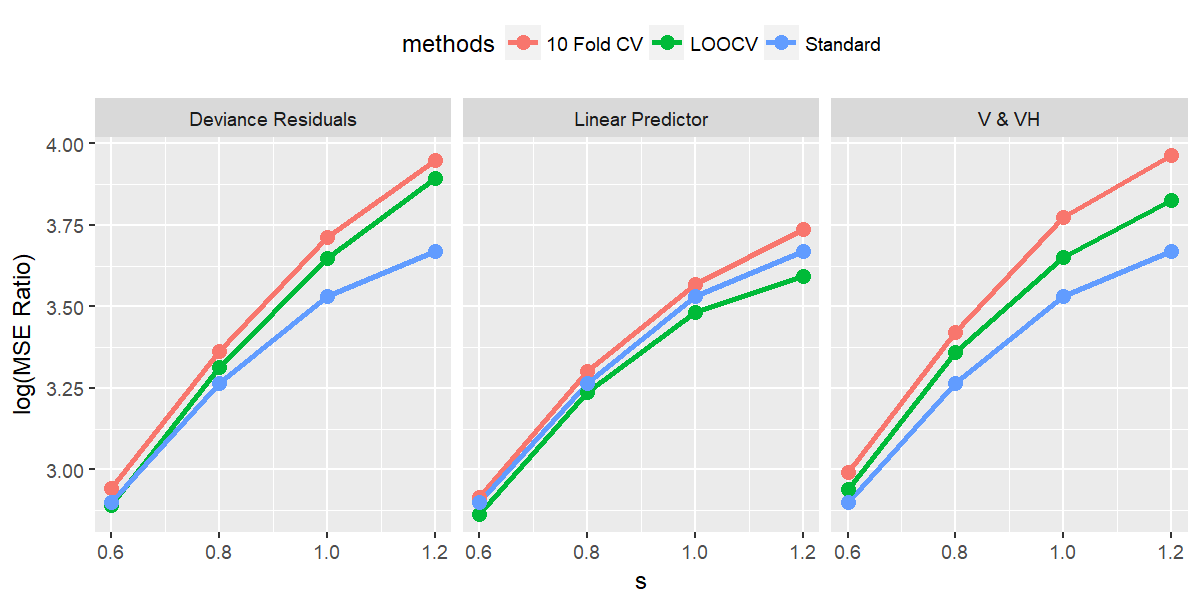
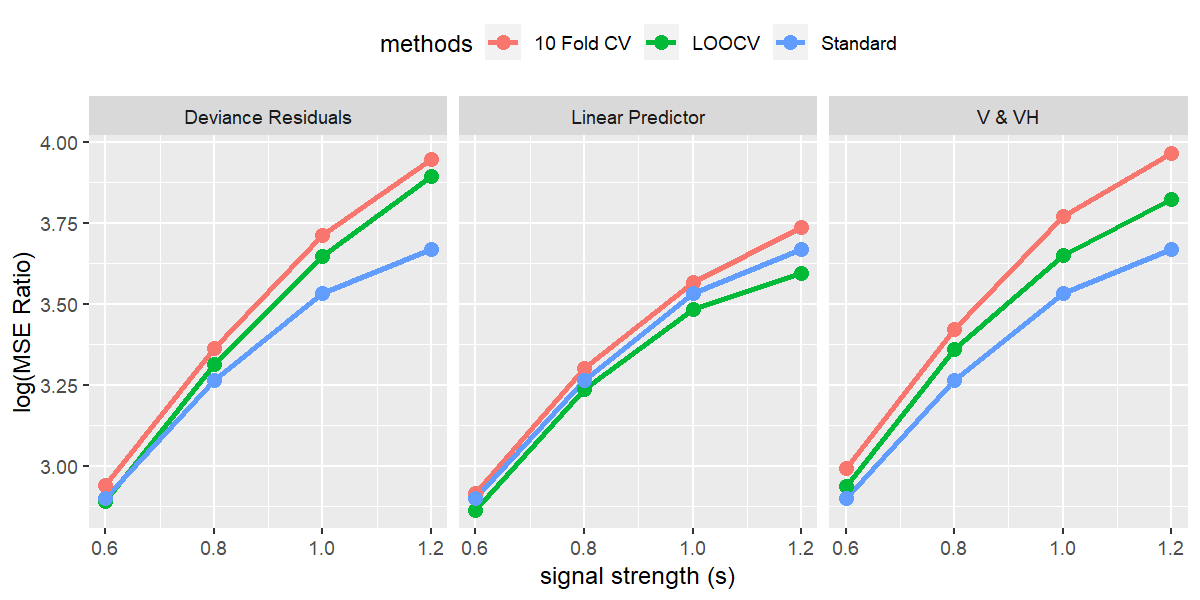
edit 2.3, 3.1, change x label for all figures

diff --git a/main.tex b/main.tex
@@ -100,9 +100,9 @@ We define the cross-validation error evaluated with cross-validated linear predi
 
 The fundamental challenge of conducting cross validation for Cox regression is that the baseline hazard is not estimated from the model. Hence, another approach to cross-validation would be to include an extra step of estimating the baseline hazard and using it to quantify the cross-validation error. The cumulative baseline hazard $\Lambda_0$ is typically estimated via the Nelson-Aalen Estimator \citep{nelson1969, aalen1978}:
 \begin{equation}
-  \hat{\Lambda}_{0}(t) = \sum_{t_j \leq t}\frac{\text{number of failures at time } t_j}{\text{number at risk at time }t^{-}_j}.
+  \hat{\Lambda}_{0}(t) = \sum_{t_j \leq t}\frac{\text{number of failures at time } t_j}{\text{number at risk right before time }t_j}.
 \end{equation}
-\note{need to define $t^{-}_j$.}
+\bnote{I write out the $t^{-}_j$ definition directly into the fomula so that we don't need to define $t^{-}_j$ separately.}
 The Cox model implies the following relationship between the baseline cumulative hazard and the cumulative hazard for individual $i$:
 \begin{equation}
   \hat{\Lambda}_{i}(t) =  \hat{\Lambda}_{0}(t)\exp(X_i\hat\beta).
@@ -115,7 +115,7 @@ The baseline hazard could be incorporated into cross-validation in a variety of 
 \end{equation}
 Note that this uses an estimate of the baseline hazard coming from the full data under the null model, but cross-validation has been applied to the estimation of the regression coefficients $\hat{\beta}$; we will discuss the rationale for this estimator shortly.
 
-A natural candidate for incorporating the cumulative hazard into a loss function is the deviance residual, a normalized form of the Martingale residual \citep{Therneau1990}. First proposed for model diagnostics, deviance residuals have also been occasionally been used as a predictive accuracy measure \citep{Therneau2018}.  Given \eqref{eq:cv-bhz}, we can first obtain the cross-validated Martingale residual: 
+A natural candidate for incorporating the cumulative hazard into a loss function is the deviance residual, a normalized form of the Martingale residual \citep{Therneau1990}. First proposed for model diagnostics, deviance residuals have also been occasionally used as a predictive accuracy measure \citep{Therneau2018}.  Given \eqref{eq:cv-bhz}, we can first obtain the cross-validated Martingale residual: 
 \begin{equation}
   \hat{M^{cv}_{i}} = \delta_{i} - \hat{\Lambda}_{0}(t_{i})\exp(X_i\hat\beta^{-k}).
 \end{equation}
@@ -125,13 +125,13 @@ The cross-validated deviance residuals can then be derived from the Martingale r
 \end{equation}
 The sum of squared cross-validated deviance residuals, $\sum_{i}\hat{d}_{i}^2$ are used as the cross validated error as an analogy to the residual sums of square for linear regression. We refer to this method as the \emph{cross-validated deviance residuals} approach.
 
-The baseline hazard estimate we describe here differs from the one typically used in constructing deviance residuals \citep{Therneau1990}. Instead of the Nelson-Aalen estimator, deviance residuals are typically calculated based on a baseline hazard estimate that has been adjusted for the covariates in the model such as the one described in \citet{breslow1972}. In the context of cross-validation, however, this approach is problematic. Deviance residuals measure the difference between the fitted model and a saturated model; in Cox regression, this saturated model depends on the baseline hazard. Thus, a covariate-adjusted baseline hazard would mean that each fold is compared to a different saturated model. For this reason, we consider it important that the baseline hazard remains constant across folds when calculating cross-validated deviance residuals; this intuition is borne out by simulations involving various other approaches \note{supplement? otherwise, this sentence is a little tricky}.  Note that this is not the case for the Brier Score or Kullback Leibler Score (described in Section~\ref{Sec:accuracy}), which involve absolute loss functions, not comparisons with a saturated model.
+The baseline hazard estimate we describe here differs from the one typically used in constructing deviance residuals \citep{Therneau1990}. Instead of the Nelson-Aalen estimator, deviance residuals are typically calculated based on a baseline hazard estimate that has been adjusted for the covariates in the model such as the one described in \citet{breslow1972}. In the context of cross-validation, however, this approach is problematic. Deviance residuals measure the difference between the fitted model and a saturated model; in Cox regression, this saturated model depends on the baseline hazard. Thus, a covariate-adjusted baseline hazard would mean that each fold is compared to a different saturated model. For this reason, we consider it important that the baseline hazard remains constant across folds when calculating cross-validated deviance residuals; this intuition is borne out by simulations involving various other approaches \note{supplement? otherwise, this sentence is a little tricky}\bnote{sure}.  Note that this is not the case for the Brier Score or Kullback Leibler Score (described in Section~\ref{Sec:accuracy}), which involve absolute loss functions, not comparisons with a saturated model.
 
 %A more straightforward way to compute the cross-validated deviance residuals is to estimate the baseline hazard using $T_k$, leaving $D_k$ as out-of-sample observations to calculate the residuals. There are two major issues with this approach. First, it is possible that some events in $D_k$ occurred after the last event in $T_k$. In this case, the survival function would drop to 0. Secondly, there is a numeric challenge for computing the term $log(\hat{\Lambda}_{0}(t_{i})e^{\hat{\eta}_{i}})$ in deviance residuals. Since the baseline hazard function is a step function from 0, the cumulative hazard $\hat{\Lambda}_{0}$ at the first time point from 0 is always 0. For whichever $D_k$ that contains the first time point, $log(\hat{\Lambda}_{0}(t_{i})e^{\hat{\eta}_{i}})$ would be negative infinity for that observation and lead to a numeric issue. To solve the first issue, events that occur later than the last event in $T_k$ should be censored. To solve the second issue, the step function of the baseline hazard needs to be smoothed. Both issues do not exist when the baseline hazard is built over the cross-validated linear predictors using all samples. \note{this paragraph may be optional, and can also be moved to discussion}
 
 \begin{figure}
   \centering
-  \includegraphics[height= 12cm ]{./figures/figure_1_new.png}
+  \includegraphics[height= 12cm ]{./manuscript_figure/figure_1_new.png}
   \caption{Illustration of K-fold Cross Validation Methods for Cox Regression}
 \end{figure}	
 
@@ -162,9 +162,7 @@ Throughout, we communicate the estimation accuracy in terms of relative MSE, as 
 \begin{equation}
 \log\left\{ \frac{\MSE(\hat{\beta}(\lambda^{\text{cv}}))}{\MSE(\hat{\beta}^{\text{oracle}})} \right\},
 \end{equation}
-where $\lambda^{cv}$ denotes the value of $\lambda$ selected by cross-validation.   These results are then averaged over N replications; the $\log$ of the ratio is taken to correct for skewness. \bnote{clarification: MSE is estimated by avevaring across N replications respectively for $\hat{\beta}(\lambda^{cv})$ and $\hat{\beta}^{oracle}$. The ratio and $\log$ were taken afterwards } \note{I'm not sure why this is a note; shouldn't you rewrite the sentence?}
-
-%For each generated data set, the $\lambda$ that has the minimal MSE is chosen as the optimal $\lambda$, which we denote by $\lambda^{opt}$. Then the models selected by the cross validation methods with $\lambda^{cv}$ would be compared to the model that corresponds to $\lambda^{opt}$. We would take the ratio between $MSE$ of $\hat{\beta}(\lambda^{cv})$ and $MSE$ of $\hat{\beta}(\lambda^{optimal})$ for each cross-validation selected $\lambda^{cv}$ in each generated data set. The results would be averaged over N replications. 
+where $\lambda^{cv}$ denotes the value of $\lambda$ selected by cross-validation. MSE is estimated by avevaring over N replications respectively for $\hat{\beta}(\lambda^{cv})$ and $\hat{\beta}^{oracle}$. The ratio is taken afterwards. The $\log$ is taken to correct for skewness. %\note{I'm not sure why this is a note; shouldn't you rewrite the sentence?}
 
 \par We also measure the predictive accuracy via the mean squared prediction error, or Brier score \citep{VanHouwelingen2011}. Let $\hat{S}(t_0|\lambda,x)$ denote the predicted probability for an individual with covariates $x$ to survive beyond time $t_0$, and let $y = \mathbb{1}\left\{ t > t_{0}\right\}$ indicate whether the individual actually survived beyond time $t_0$. Then the Brier score is defined to be
 \begin{equation}
@@ -180,7 +178,7 @@ As for the Brier score, KL scores were computed for all CV approaches at the med
 
 \par The final metric we included in our study was Harrell's C Index \citep{HarrellJr1984}. The C Index is a rank-based statistic that measures the concordance between the linear predictor of the selected model and the observed outcome. Suppose we arbitrarily select two individuals; if the individual with the higher predicted risk also died first, then this would be considered as a concordant pair. The C Index considers all possible such pairs and estimates of proportion of those pairs that are concordant. A C Index of 0.5 means the prediction is no better than flipping a coin and C Index of 1 means perfect concordance. We computed Harrell's C Index using the independent test set of 1000 individuals described above.
 
-\bnote{I rewrote this paragraph} For each simulated data set, the covariate matrix has $n = 120$ observations and $p = 1000$ covariates. The covariate vector $\beta$ is assumed to be sparse, with $\beta_j = 0$ for $j \in \{11,12,..,1000\}$ and $\beta_j = s$ for $j \in \{1,2, ..., 10 \}$, where $s$ is a prespecified constant that parameterizes the signal strength in the simulated data set. In the first simulation study, we varied $s$ from 0.4 to 0.9. The survival outcomes have 10$\%$ expected censoring. For each of the four methods described in Section~\ref{Sec:methods}, 10-fold cross-validation was implemented. $N = 200$ replications were used for each scenario.
+ For each simulated data set, the covariate matrix has $n = 120$ observations and $p = 1000$ covariates. The covariate vector $\beta$ is assumed to be sparse, with $\beta_j = 0$ for $j \in \{11,12,..,1000\}$ and $\beta_j = s$ for $j \in \{1,2, ..., 10 \}$, where $s$ is a prespecified constant that parameterizes the signal strength in the simulated data set. In the first simulation study, we varied $s$ from 0.4 to 0.9. The survival outcomes have 10$\%$ expected censoring. For each of the four methods described in Section~\ref{Sec:methods}, 10-fold cross-validation was implemented. $N = 200$ replications were used for each scenario.
 
 \begin{figure}[ht]
   \centering
